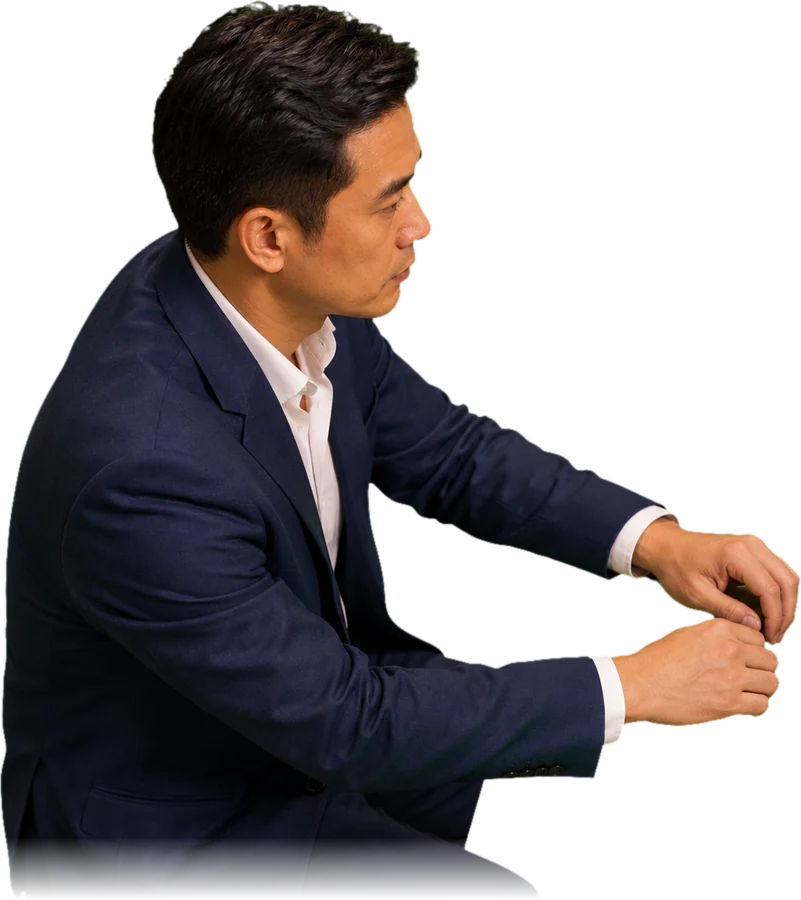
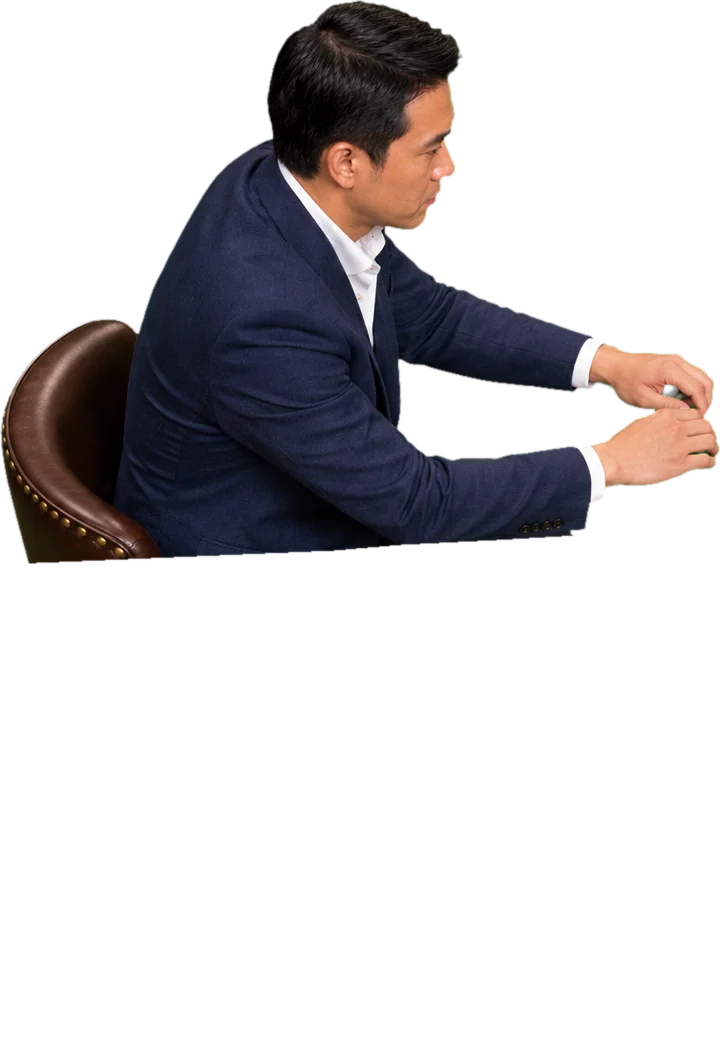
Seat the photo players in real chairs, with legs going under the table
The half-figure photos set into 3D tub chairs looked planted rather
than seated. Each player is now a full photo of the person sitting in a
leather chair, shot from the angle of their seat, split into two
layers along the underside of the forearms and hands: the upper layer
(torso, arms) is kept in front of the table and the lower layer (legs,
chair) is pushed behind it, so the 3D table hides exactly what would be
under it. A soft shadow is projected under each chair base.

The chair and legs no longer move with the idle sway; breathing and
leaning are done by warping only the upper body. The play camera can
shift sideways a little so the end-seat chair stays in frame without
shrinking the table.

Claude-Session: https://claude.ai/code/session_01Ke7ZpiBvftGJ4RgPzqrayF

diff --git a/xito-stage.js b/xito-stage.js
@@ -487,65 +487,64 @@
       m.rotation.x = -Math.PI / 2; m.position.set(0, 0.215, photoAnchor.z + 0.05); m.renderOrder = 1; m.visible = false; scene.add(m);
       return m;
     })();
-    /* Người chơi ảnh thật: mỗi ghế một tấm cắt nền chụp đúng hướng ngồi (ghế góc bàn: nghiêng 3/4; ghế đầu bàn: nhìn ngang).
-     * h = chiều cao tấm ảnh trong cảnh; (px, py) = điểm "bàn tay" trong ảnh, tính từ góc dưới trái — điểm này được đặt lên mép bàn. */
+    /* Người chơi ảnh thật: mỗi ghế một tấm ảnh cắt nền chụp cả người lẫn ghế, đúng hướng ngồi của ghế đó
+     * (ghế góc bàn: nghiêng 3/4; ghế đầu bàn: nhìn ngang). Tấm ảnh luôn quay mặt về máy quay và đi qua điểm bàn tay
+     * chạm mép bàn, nên cái bàn 3D tự che phần chân nằm dưới gầm bàn, còn ghế và phần người ngoài mép bàn vẫn thấy.
+     * Mỗi người có hai lớp ảnh, tách theo viền dưới của cẳng tay và bàn tay: lớp trên (thân, tay) luôn nằm trước cái bàn;
+     * lớp dưới (đùi, chân, ghế) lùi ra sau cái bàn, nên chỗ nào chân trùng với bàn trên màn hình thì bàn che, đúng như ngồi thật.
+     * h = chiều cao tấm ảnh trong cảnh. Các điểm tính từ góc dưới trái ảnh: (px, py) = chỗ bàn tay chạm bàn,
+     * grip = tâm hai bàn tay, head = đầu, chest = ngực, base = đế ghế chạm sàn; cut = lớp trên còn trễ xuống dưới điểm chạm bàn
+     * bao nhiêu (đơn vị cảnh; ghế đầu bàn có ống tay áo trễ xuống nhiều hơn). face: 1 = quay mặt sang phải khung hình. */
     const PEOPLE = {
-      A: { h: 2.5, px: 0.88, py: 0.05, grip: [0.87, 0.07], head: [0.47, 0.77], face: 1 },     // face: 1 = quay mặt về bên phải khung hình
-      B: { h: 2.6, px: 0.37, py: 0.09, grip: [0.36, 0.1], head: [0.58, 0.81], face: -1 },
-      C: { h: 2.45, px: 0.9, py: 0.22, grip: [0.89, 0.3], head: [0.38, 0.81], face: 1 },
+      A: { h: 4.72, px: 0.924, py: 0.499, grip: [0.904, 0.539], head: [0.59, 0.882], chest: [0.56, 0.75], base: [0.349, 0.19], cut: 0.03, face: 1 },
+      B: { h: 4.73, px: 0.23, py: 0.494, grip: [0.23, 0.544], head: [0.491, 0.885], chest: [0.53, 0.75], base: [0.7, 0.2], cut: 0.03, face: -1 },
+      C: { h: 3.81, px: 0.94, py: 0.52, grip: [0.927, 0.584], head: [0.503, 0.878], chest: [0.47, 0.72], base: [0.344, 0.075], cut: 0.16, face: 1 },
     };
-    const pTex = {};
+    const pTex = {}, pTexLow = {};      // lớp trên, lớp dưới
     if (opts.playerPhotos) {
       const loader = new THREE.TextureLoader();
-      Object.keys(opts.playerPhotos).forEach((k) => loader.load(opts.playerPhotos[k], (tex) => {
+      Object.keys(opts.playerPhotos).forEach((k) => [pTex, pTexLow].forEach((store, i) => loader.load(opts.playerPhotos[k][i], (tex) => {
         tex.encoding = THREE.sRGBEncoding; tex.anisotropy = Math.min(8, renderer.capabilities.getMaxAnisotropy());
-        pTex[k] = tex; lastW = 0;
+        store[k] = tex; lastW = 0;
         for (const st of seats) if (st.key === k && !st.ph) st.ph = makePhoto(k);
-      }, undefined, () => {}));
+      }, undefined, () => {})));
     }
     function makePhoto(k) {
-      if (!pTex[k] || !PEOPLE[k]) return null;
-      const m = new THREE.Mesh(new THREE.PlaneGeometry(1, 1, 14, 18), new THREE.MeshBasicMaterial({ map: pTex[k], transparent: true, alphaTest: 0.05, color: 0xe9ddcf }));
-      const c = PEOPLE[k];
-      m.userData.asp = pTex[k].image.width / pTex[k].image.height; m.userData.cfg = c; m.userData.ph = Math.random() * 6.28;
-      m.userData.rig = makeRig(m, c.h * m.userData.asp, c.h, [{ u: c.grip[0], v: c.grip[1], r: 1.0 }, { u: c.head[0], v: c.head[1], r: 0.7 }]);
-      m.visible = false; m.renderOrder = 2; scene.add(m);
+      if (!pTex[k] || !pTexLow[k] || !PEOPLE[k]) return null;
+      const c = PEOPLE[k], asp = pTex[k].image.width / pTex[k].image.height;
+      const layer = (tex) => new THREE.Mesh(new THREE.PlaneGeometry(1, 1, 16, 24), new THREE.MeshBasicMaterial({ map: tex, transparent: true, alphaTest: 0.05, color: 0xe9ddcf }));
+      const m = layer(pTex[k]), low = layer(pTexLow[k]);
+      m.userData.asp = asp; m.userData.cfg = c; m.userData.ph = Math.random() * 6.28; m.userData.low = low;
+      // ba vùng cử động: hai bàn tay, đầu, nửa thân trên (ghế và chân đứng yên); hai lớp dùng chung một bộ để không hở đường tách
+      const parts = [{ u: c.grip[0], v: c.grip[1], r: 1.0 }, { u: c.head[0], v: c.head[1], r: 0.7 }, { u: c.chest[0], v: c.chest[1], r: 1.5 }];
+      m.userData.rig = makeRig(m, c.h * asp, c.h, parts); low.userData.rig = makeRig(low, c.h * asp, c.h, parts);
+      for (const x of [m, low]) { x.visible = false; x.renderOrder = 2; scene.add(x); }
       return m;
     }
-    // ghế bành lưng cong: che phần dưới của tấm ảnh và cho người chơi một chỗ ngồi thật
-    const tubMat = M(0x2a1410, 0.55, { side: THREE.DoubleSide }), tubSeatMat = M(0x3a1d15, 0.7);
-    const arcBand = (r0, r1, half, y0, y1) => {
-      const sh = new THREE.Shape();
-      sh.absarc(0, 0, r1, Math.PI / 2 - half, Math.PI / 2 + half, false);
-      sh.absarc(0, 0, r0, Math.PI / 2 + half, Math.PI / 2 - half, true);
-      const g = new THREE.ExtrudeGeometry(sh, { depth: y1 - y0, bevelEnabled: false, curveSegments: 20 });
-      g.rotateX(-Math.PI / 2); g.translate(0, y0, 0);     // dựng đứng lên; lưng ghế nằm phía −z (sau lưng người ngồi, người ngồi nhìn về +z)
-      return g;
-    };
-    const tubArmGeo = arcBand(0.78, 0.95, 2.2, -1.75, -0.12), tubBackGeo = arcBand(0.78, 0.95, 1.05, -0.12, 0.95);
-    const tubSeatGeo = new THREE.CylinderGeometry(0.8, 0.8, 0.34, 28), tubPostGeo = new THREE.CylinderGeometry(0.12, 0.16, 0.9, 12), tubFootGeo = new THREE.CylinderGeometry(0.62, 0.7, 0.08, 24);
-    function buildTub(x, z, rot) {
-      const g = new THREE.Group(); g.position.set(x, 0, z); g.rotation.y = rot;
-      const arm = new THREE.Mesh(tubArmGeo, tubMat), back = new THREE.Mesh(tubBackGeo, tubMat);
-      const seat = new THREE.Mesh(tubSeatGeo, tubSeatMat); seat.position.y = -1.17;
-      const post = new THREE.Mesh(tubPostGeo, chairTrim); post.position.y = -2.15;
-      const foot = new THREE.Mesh(tubFootGeo, chairTrim); foot.position.y = -2.56;
-      for (const m of [arm, back, seat]) { m.castShadow = true; m.receiveShadow = true; }
-      g.add(arm, back, seat, post, foot); g.visible = false; scene.add(g);
-      return g;
+    // bóng mờ trên sàn dưới đế ghế: đặt đúng chỗ đế ghế trong ảnh "rơi" xuống sàn theo hướng nhìn, để ghế bám sàn ở mọi góc máy
+    const blobTex = canvasTex(128, 128, (ctx) => { const g = ctx.createRadialGradient(64, 64, 6, 64, 64, 64); g.addColorStop(0, 'rgba(0,0,0,.7)'); g.addColorStop(0.55, 'rgba(0,0,0,.3)'); g.addColorStop(1, 'rgba(0,0,0,0)'); ctx.fillStyle = g; ctx.fillRect(0, 0, 128, 128); });
+    function makeShadow() {
+      const m = flat(new THREE.Mesh(new THREE.PlaneGeometry(2.7, 2.1), new THREE.MeshBasicMaterial({ map: blobTex, transparent: true, depthWrite: false })));
+      m.renderOrder = 1; m.visible = false; scene.add(m);
+      return m;
     }
-    const camUp = new V3(), camRt = new V3(), camFwd = new V3(), swayQ = new THREE.Quaternion(), Z1 = new V3(0, 0, 1), dimC = new THREE.Color();
+    const FLOOR_Y = -2.6;
+    const camUp = new V3(), camRt = new V3(), camFwd = new V3(), pc = new V3(), swayQ = new THREE.Quaternion(), Z1 = new V3(0, 0, 1), dimC = new THREE.Color();
     function updatePlayers(now) {
       const t = now / 1000, mv = Math.min(1, Math.max(motion(), 0));
+      camUp.set(0, 1, 0).applyQuaternion(camera.quaternion);
+      camRt.set(1, 0, 0).applyQuaternion(camera.quaternion);
+      camFwd.set(0, 0, -1).applyQuaternion(camera.quaternion);
+      const sinE = Math.max(0, -camFwd.y), cosE = Math.sqrt(1 - sinE * sinE), tanE = sinE / Math.max(cosE, 0.05);   // góc máy quay chúc xuống
       for (const st of seats) {
         if (!st.fig) continue;
         const show = photo.on && !!st.ph;
         st.fig.g.visible = !show;
-        if (st.tub) st.tub.visible = show;
+        if (st.shadow) st.shadow.visible = show;
         if (!st.ph) continue;
-        st.ph.visible = show;
+        st.ph.visible = st.ph.userData.low.visible = show;
         if (!show) continue;
-        const m = st.ph, c = m.userData.cfg, ph = m.userData.ph, rig = m.userData.rig;
+        const m = st.ph, low = m.userData.low, c = m.userData.cfg, ph = m.userData.ph, rig = m.userData.rig;
         // động tác đang diễn: e = mức đưa tay ra (tố, theo, úp bài), tap = gõ bàn (xem), flick = hất nhẹ khi quăng bài
         let e = 0, tap = 0, flick = 0;
         if (st.g) {
@@ -554,25 +553,39 @@
           else if (st.g.kind === 'check') tap = Math.pow(Math.sin(u * Math.PI * 2), 2);
           else { e = pushEnv(u); if (st.g.kind === 'fold') flick = Math.sin(Math.min(1, u / 0.45) * Math.PI); }
         }
-        const H = c.h * (1 + Math.sin(t * 1.1 + ph) * 0.004), W = c.h * m.userData.asp;
-        // người hơi ngả về phía bàn khi đưa tay ra
-        swayQ.setFromAxisAngle(Z1, (Math.sin(t * 0.41 + ph) * 0.007 + Math.sin(t * 0.77 + ph * 2) * 0.003) * mv - c.face * 0.035 * e);
-        camUp.set(0, 1, 0).applyQuaternion(swayQ).applyQuaternion(camera.quaternion);
-        camRt.set(1, 0, 0).applyQuaternion(swayQ).applyQuaternion(camera.quaternion);
-        m.quaternion.copy(camera.quaternion).multiply(swayQ);
-        m.scale.set(W, H, 1);
-        m.position.copy(st.hand).addScaledVector(camRt, (0.5 - c.px) * W).addScaledVector(camUp, (0.5 - c.py) * H);
+        const H = c.h, W = c.h * m.userData.asp;
+        // vị trí trên màn hình: điểm bàn tay trong ảnh trùng với điểm trên mép bàn
+        pc.copy(st.hand).addScaledVector(camRt, (0.5 - c.px) * W).addScaledVector(camUp, (0.5 - c.py) * H);
+        // độ sâu: trượt từng phần dọc theo tia nhìn (to nhỏ theo đúng tỉ lệ nên hình trên màn hình không đổi)
+        const dz = gv.copy(st.hand).sub(camera.position).dot(camFwd);
+        const kU = 1 - Math.min(0.6, c.cut / Math.max(tanE, 0.3)) / dz, kL = 1 + (1.1 * sinE + 0.5 * cosE) / dz;
+        m.quaternion.copy(camera.quaternion); low.quaternion.copy(camera.quaternion);
+        m.position.copy(camera.position).addScaledVector(gv.copy(pc).sub(camera.position), kU); m.scale.set(W * kU, H * kU, 1);
+        low.position.copy(camera.position).addScaledVector(gv.copy(pc).sub(camera.position), kL); low.scale.set(W * kL, H * kL, 1);
         // bàn tay: đẩy về phía chip hoặc chồng bài bỏ; gõ bàn khi xem
         if (e && st.g) { gv.copy(st.g.d).multiplyScalar((st.g.kind === 'fold' ? 0.36 : 0.32) * e); rig.off[0][0] = gv.dot(camRt); rig.off[0][1] = gv.dot(camUp) + flick * 0.07; }
         else { rig.off[0][0] = 0; rig.off[0][1] = -tap * 0.07; }
         // đầu: nhúc nhích rất nhẹ; đến lượt mình thì cúi xuống nhìn bài
         st.think = lerp(st.think || 0, seats[turnSeat] === st ? 1 : 0, 0.05);
-        rig.off[1][0] = (Math.sin(t * 0.53 + ph) * 0.014 + c.face * (st.think * 0.02 + e * 0.02)) * mv;
-        rig.off[1][1] = (Math.sin(t * 0.37 + ph * 1.7) * 0.011 - st.think * 0.035 - e * 0.02) * mv;
+        rig.off[1][0] = (Math.sin(t * 0.53 + ph) * 0.014 + c.face * st.think * 0.015) * mv;
+        rig.off[1][1] = (Math.sin(t * 0.37 + ph * 1.7) * 0.011 - st.think * 0.03) * mv;
+        // nửa thân trên: thở, và ngả về phía bàn khi đưa tay ra (ghế và chân không nhúc nhích)
+        rig.off[2][0] = (Math.sin(t * 0.41 + ph) * 0.008 + c.face * (e * 0.07 + st.think * 0.02)) * mv;
+        rig.off[2][1] = (Math.sin(t * 1.1 + ph) * 0.008 - e * 0.03 - st.think * 0.012) * mv;
         applyRig(m, rig);
+        const rl = low.userData.rig;
+        for (let i = 0; i < 3; i++) { rl.off[i][0] = rig.off[i][0]; rl.off[i][1] = rig.off[i][1]; }
+        applyRig(low, rl);
         // bỏ bài thì tối đi
         st.dim = lerp(st.dim || 0, st.out ? 1 : 0, 0.1);
-        m.material.color.setHex(0xe9ddcf).lerp(dimC.setHex(0x4a423c), st.dim * 0.8);
+        m.material.color.setHex(0xe9ddcf).lerp(dimC.setHex(0x4a423c), st.dim * 0.8); low.material.color.copy(m.material.color);
+        // bóng dưới đế ghế
+        if (st.shadow) {
+          gv.copy(pc).addScaledVector(camRt, (c.base[0] - 0.5) * W).addScaledVector(camUp, (c.base[1] - 0.5) * H);
+          const k = (FLOOR_Y - camera.position.y) / (gv.y - camera.position.y);
+          st.shadow.position.copy(camera.position).addScaledVector(gv.sub(camera.position), k); st.shadow.position.y = FLOOR_Y + 0.012;
+          st.shadow.scale.setScalar(k);
+        }
       }
     }
     function gesture(st, kind, target) {
@@ -671,10 +684,10 @@
     const corner = (side) => {
       const hand = arc(side, RW - 0.2, PHI);
       return { cx: side * 2.4, cz: -1.05, sp: 0.3, k: 1.2, bet: [side * 1.15, -0.15], lab: [0, 0.74], edge: hand, plate: arc(side, RW - 0.62, PHI - 0.16), plateY: 0.02, hand,
-        fig: [...arc(side, RW + 0.55, PHI), -side * (Math.PI / 2 - PHI)], tub: [...arc(side, RW + 0.92, PHI), -side * (Math.PI / 2 - PHI)] };
+        fig: [...arc(side, RW + 0.55, PHI), -side * (Math.PI / 2 - PHI)] };
     };
-    const end = (side) => ({ cx: side * 2.65, cz: 0.4, sp: 0.3, k: 1.2, bet: [side * 2.3, 1.25], lab: [-side * 0.1, 0.72], edge: [side * 4.05, 0.35], plate: [side * 4.7, 1.1], plateY: -0.9, hand: [side * (RL - 0.45), 0.35],
-      fig: [side * (RL + 0.55), 0.35, -side * Math.PI / 2], tub: [side * (RL + 0.55), 0.35, -side * Math.PI / 2] });
+    const end = (side) => ({ cx: side * 2.65, cz: 0.4, sp: 0.3, k: 1.2, bet: [side * 2.3, 1.25], lab: [-side * 0.1, 0.72], edge: [side * 4.05, 0.35], plate: [side * 4.9, 1.2], plateY: -1.4, hand: [side * 3.6, 0.55],
+      fig: [side * (RL + 0.55), 0.35, -side * Math.PI / 2] });
     const SLOT = {
       me: { cx: 0, cz: 1.5, sp: 0.66, k: 1.2, bet: [0, 0.38], lab: [0.78, 0.15], edge: [0, 2.9] },
       C: end(-1), A: corner(-1), B: corner(1), D: end(1),
@@ -685,13 +698,13 @@
     function setSeats(n) {
       for (const s of seats) {
         if (s.fig) { s.fig.dispose(); figures.splice(figures.indexOf(s.fig), 1); }
-        if (s.ph) { scene.remove(s.ph); s.ph.material.dispose(); }
-        if (s.tub) scene.remove(s.tub);
+        if (s.ph) { scene.remove(s.ph, s.ph.userData.low); s.ph.material.dispose(); s.ph.userData.low.material.dispose(); }
+        if (s.shadow) scene.remove(s.shadow);
       }
       seats = (ORDER[n] || ORDER[4]).map((k) => {
         const s = SLOT[k];
         const fig = s.fig ? buildFigure(Object.assign({ x: s.fig[0], y: -0.75, z: s.fig[1], rot: s.fig[2], k: 1.2, reach: 0.72, handX: 0.36, seated: true }, LOOKS[k] || LOOKS.C)) : null;
-        return { s, key: k, fig, ph: fig ? makePhoto(k) : null, tub: s.tub && PEOPLE[k] ? buildTub(s.tub[0], s.tub[1], s.tub[2]) : null, hand: s.hand ? new V3(s.hand[0], 0.2, s.hand[1]) : null, out: false, dim: 0, betPos: new V3(s.bet[0], 0, s.bet[1]), platePos: s.plate ? new V3(s.plate[0], s.plateY == null ? 0.5 : s.plateY, s.plate[1]) : new V3(0, 0, 2.6), betLab: new V3(s.bet[0] + s.lab[0], 0.2, s.bet[1] + s.lab[1]), edge: new V3(s.edge[0], 0, s.edge[1]), pile: null };
+        return { s, key: k, fig, ph: fig ? makePhoto(k) : null, shadow: fig && PEOPLE[k] ? makeShadow() : null, hand: s.hand ? new V3(s.hand[0], 0.2, s.hand[1]) : null, out: false, dim: 0, betPos: new V3(s.bet[0], 0, s.bet[1]), platePos: s.plate ? new V3(s.plate[0], s.plateY == null ? 0.5 : s.plateY, s.plate[1]) : new V3(0, 0, 2.6), betLab: new V3(s.bet[0] + s.lab[0], 0.2, s.bet[1] + s.lab[1]), edge: new V3(s.edge[0], 0, s.edge[1]), pile: null };
       });
       lastW = 0;
     }
@@ -717,26 +730,35 @@
       for (const s of seats) if (s.fig) {
         const p = s.fig.g.position, c = PEOPLE[s.key];
         if (Math.abs(p.x) < RL) pts.push([p.x, 2.7, p.z]);
-        else if (photo.on && c && pTex[s.key]) {
-          // người ngồi đầu bàn: cả lưng lẫn đầu phải nằm trong khung (tấm ảnh nghiêng theo góc máy quay)
-          const W = c.h * pTex[s.key].image.width / pTex[s.key].image.height, sd = Math.sign(p.x), up = 0.45 * c.h;
-          pts.push([s.hand.x + sd * c.px * W, 0.2 + up * Math.cos(el), s.hand.z - up * Math.sin(el)]);
+        else if (photo.on && c && s.ph) {
+          // người ngồi đầu bàn: lưng ghế (mép ngoài tấm ảnh) phải nằm trong khung
+          const W = c.h * pTex[s.key].image.width / pTex[s.key].image.height, sd = Math.sign(p.x);
+          pts.push([s.hand.x + sd * (sd < 0 ? c.px : 1 - c.px) * W, 0.2, s.hand.z]);
         } else pts.push([Math.sign(p.x) * (RL + 1.35), 0.6, p.z]);
       }
       probe.aspect = aspect; probe.fov = camera.fov; probe.updateProjectionMatrix();
-      const measure = (d, tz) => {
-        probe.position.set(0, 0.3 + Math.sin(el) * d, tz + Math.cos(el) * d); probe.lookAt(0, 0.3, tz); probe.updateMatrixWorld(); probe.matrixWorldInverse.copy(probe.matrixWorld).invert();
-        let mx = 0, top = -9, bot = 9;
-        for (const p of pts) { pv.set(p[0], p[1], p[2]).project(probe); mx = Math.max(mx, Math.abs(pv.x)); top = Math.max(top, pv.y); bot = Math.min(bot, pv.y); }
-        return { mx, top, bot };
+      const L = 0.97;
+      const measure = (d, tz, sx) => {
+        probe.position.set(sx || 0, 0.3 + Math.sin(el) * d, tz + Math.cos(el) * d); probe.lookAt(sx || 0, 0.3, tz); probe.updateMatrixWorld(); probe.matrixWorldInverse.copy(probe.matrixWorld).invert();
+        let x0 = 9, x1 = -9, top = -9, bot = 9;
+        for (const p of pts) { pv.set(p[0], p[1], p[2]).project(probe); x0 = Math.min(x0, pv.x); x1 = Math.max(x1, pv.x); top = Math.max(top, pv.y); bot = Math.min(bot, pv.y); }
+        return { x0, x1, mx: Math.max(-x0, x1), top, bot };
+      };
+      // bố cục lệch (có người ngồi một đầu bàn): lệch máy quay sang phía đó vừa đủ để không ai bị cắt, miễn là đầu bàn bên kia vẫn trong khung
+      const shiftFor = (d, tz) => {
+        const r = measure(d, tz, 0);
+        let sh = 0;
+        if (r.x0 < -L && r.x1 < L) sh = Math.max(r.x0 + L, r.x1 - L); else if (r.x1 > L && r.x0 > -L) sh = Math.min(r.x1 - L, r.x0 + L);
+        if (!sh) return 0;
+        return sh / (pv.set(1, 0.3, tz).project(probe).x - pv.set(0, 0.3, tz).project(probe).x);
       };
       // đặt nội dung cân giữa theo chiều dọc, rồi tìm khoảng cách gần nhất mà vẫn vừa khung
       const panFor = (d) => { let a = -8, b = 8; for (let i = 0; i < 20; i++) { const m = (a + b) / 2, r = measure(d, m); if (r.top + r.bot + topRes - 0.04 > 0) b = m; else a = m; } return (a + b) / 2; };
       let lo = 5, hi = 50;
-      for (let i = 0; i < 20; i++) { const d = (lo + hi) / 2, r = measure(d, panFor(d)); if (r.mx <= 0.97 && r.top <= 0.98 - topRes) hi = d; else lo = d; }
-      const tz = panFor(hi);
-      cam.playTgt.set(0, 0.3, tz);
-      cam.playPos.set(0, 0.3 + Math.sin(el) * hi, tz + Math.cos(el) * hi);
+      for (let i = 0; i < 20; i++) { const d = (lo + hi) / 2, z = panFor(d), r = measure(d, z, shiftFor(d, z)); if (r.mx <= L + 1e-4 && r.top <= 0.98 - topRes) hi = d; else lo = d; }
+      const tz = panFor(hi), sx = shiftFor(hi, tz);
+      cam.playTgt.set(sx, 0.3, tz);
+      cam.playPos.set(sx, 0.3 + Math.sin(el) * hi, tz + Math.cos(el) * hi);
     }
     function poseOf(mode, now, pos, tgt) {
       if (mode === 'lobby') {

diff --git a/index.html b/index.html
@@ -798,7 +798,7 @@ details.why[open] summary::before { content: "▾ "; }
   let screen = 'lobby';
 
   /* ---------------- bàn 3D ---------------- */
-  const stage = window.XitoStage ? window.XitoStage.create($('stage'), { motion, sound: (k) => Sound.play(k), topInset: 36, dealerPhotos: { top: 'dealer-top.webp', front: 'dealer-front.webp' }, playerPhotos: { A: 'player-chi-tu.webp', B: 'player-bac-sau.webp', C: 'player-anh-ba.webp' } }) : null;
+  const stage = window.XitoStage ? window.XitoStage.create($('stage'), { motion, sound: (k) => Sound.play(k), topInset: 36, dealerPhotos: { top: 'dealer-top.webp', front: 'dealer-front.webp' }, playerPhotos: { A: ['player-chi-tu.webp', 'player-chi-tu-low.webp'], B: ['player-bac-sau.webp', 'player-bac-sau-low.webp'], C: ['player-anh-ba.webp', 'player-anh-ba-low.webp'] } }) : null;
   const noop = () => Promise.resolve();
   const S = stage || new Proxy({}, { get: (_, k) => (k === 'anchor' || k === 'pick' ? () => null : noop) });
   if (!stage) $('stage').classList.add('nogl');

diff --git a/README.md b/README.md
@@ -32,7 +32,7 @@ Với Apple ID miễn phí, app hết hạn sau 7 ngày, chỉ cần cài lại 
 | `xito-fx.js` | Nặn bài, âm thanh |
 | `xito-stage.js` | Bàn chơi 3D (three.js): bàn, dealer, lá bài, chip, máy quay |
 | `assets/dealer/` | Hai ảnh dealer đã tách nền (góc cao cho bàn chơi, chính diện cho sảnh). Ảnh do AI tạo, không phải người thật |
-| `assets/players/` | Ảnh ba người chơi đã tách nền, mỗi người chụp đúng hướng ngồi của ghế mình (Chị Tư và Bác Sáu ở hai góc bàn, Anh Ba ở đầu bàn). Ảnh do AI tạo, không phải người thật |
+| `assets/players/` | Ảnh ba người chơi ngồi sẵn trên ghế, đã tách nền, mỗi người chụp đúng hướng ngồi của ghế mình (Chị Tư và Bác Sáu ở hai góc bàn, Anh Ba ở đầu bàn). Mỗi người hai lớp: lớp trên bàn (thân, tay) và lớp `-low` dưới gầm bàn (chân, ghế) để cái bàn 3D che đúng chỗ. Ảnh do AI tạo, không phải người thật |
 | `xito-sim.js`, `xito-lab-data.js` | Mô phỏng 1 triệu ván và dữ liệu kinh nghiệm |
 | `index.html` | Giao diện (dùng chung cho web, PWA và app) |
 | `scripts/build-web.mjs` | Đóng gói vào `www/` (font offline, manifest, service worker) |
